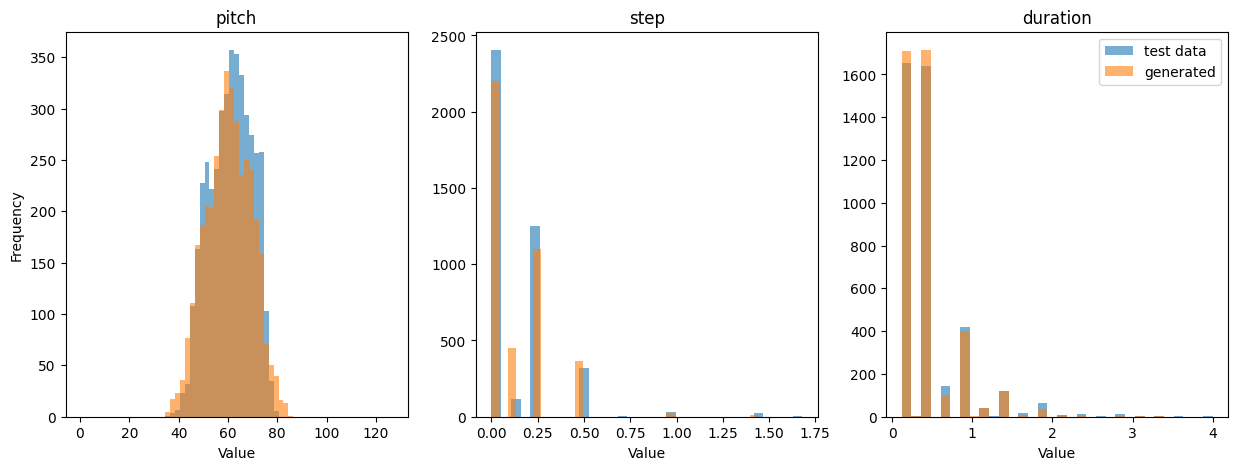
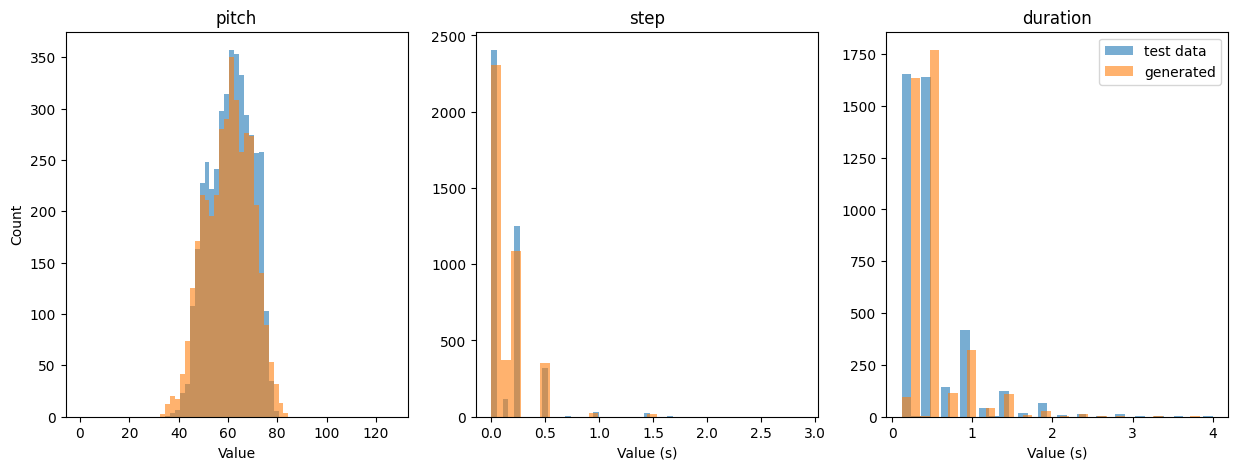
Built site for gh-pages

diff --git a/posts/Transformers2-MusicBox.html b/posts/Transformers2-MusicBox.html
@@ -3099,7 +3099,7 @@ p {
 <span id="cb46-14"><a href="#cb46-14" aria-hidden="true" tabindex="-1"></a>    new_notes_list.append( decode( model.generate(ptoks, max_new_tokens<span class="op">=</span>max_new_tokens)[<span class="dv">0</span>].cpu()[prompt_len:] ) )</span>
 <span id="cb46-15"><a href="#cb46-15" aria-hidden="true" tabindex="-1"></a>all_new_notes <span class="op">=</span> torch.vstack(new_notes_list).<span class="bu">type</span>(torch.float32)</span>
 <span id="cb46-16"><a href="#cb46-16" aria-hidden="true" tabindex="-1"></a></span>
-<span id="cb46-17"><a href="#cb46-17" aria-hidden="true" tabindex="-1"></a><span class="bu">print</span>(<span class="st">"all_test_notes.shape, all_new_notes.shape  = "</span>,all_test_notes.shape, all_new_notes.shape )</span>
+<span id="cb46-17"><a href="#cb46-17" aria-hidden="true" tabindex="-1"></a><span class="bu">print</span>(<span class="ss">f"# of test notes = </span><span class="sc">{</span><span class="bu">len</span>(all_test_notes)<span class="sc">}</span><span class="ss">,  # of generated notes = </span><span class="sc">{</span><span class="bu">len</span>(all_new_notes)<span class="sc">}</span><span class="ss"> --- Close enough!"</span>)</span>
 <span id="cb46-18"><a href="#cb46-18" aria-hidden="true" tabindex="-1"></a></span>
 <span id="cb46-19"><a href="#cb46-19" aria-hidden="true" tabindex="-1"></a></span>
 <span id="cb46-20"><a href="#cb46-20" aria-hidden="true" tabindex="-1"></a>fig, ax <span class="op">=</span> plt.subplots(<span class="dv">1</span>, <span class="dv">3</span>, figsize<span class="op">=</span>(<span class="dv">15</span>, <span class="dv">5</span>))</span>
@@ -3110,16 +3110,16 @@ p {
 <span id="cb46-25"><a href="#cb46-25" aria-hidden="true" tabindex="-1"></a>    ax[i].hist(all_new_notes[:,i].numpy(),  bins<span class="op">=</span>bins, label<span class="op">=</span><span class="st">'generated'</span>, alpha<span class="op">=</span><span class="fl">0.6</span>)</span>
 <span id="cb46-26"><a href="#cb46-26" aria-hidden="true" tabindex="-1"></a>    ax[i].set_title(names[i])</span>
 <span id="cb46-27"><a href="#cb46-27" aria-hidden="true" tabindex="-1"></a>    <span class="cf">if</span> i<span class="op">==</span><span class="dv">2</span>: ax[i].legend()</span>
-<span id="cb46-28"><a href="#cb46-28" aria-hidden="true" tabindex="-1"></a>    ax[i].set_xlabel(<span class="st">'Value'</span>)</span>
-<span id="cb46-29"><a href="#cb46-29" aria-hidden="true" tabindex="-1"></a>    <span class="cf">if</span> i<span class="op">==</span><span class="dv">0</span>: ax[i].set_ylabel(<span class="st">'Frequency'</span>)</span>
+<span id="cb46-28"><a href="#cb46-28" aria-hidden="true" tabindex="-1"></a>    ax[i].set_xlabel(<span class="st">'Value'</span><span class="op">+</span><span class="ss">f'</span><span class="sc">{</span><span class="st">" (s)"</span> <span class="cf">if</span> i<span class="op">&gt;</span><span class="dv">0</span> <span class="cf">else</span> <span class="st">""</span><span class="sc">}</span><span class="ss">'</span>)</span>
+<span id="cb46-29"><a href="#cb46-29" aria-hidden="true" tabindex="-1"></a>    <span class="cf">if</span> i<span class="op">==</span><span class="dv">0</span>: ax[i].set_ylabel(<span class="st">'Count'</span>)</span>
 <span id="cb46-30"><a href="#cb46-30" aria-hidden="true" tabindex="-1"></a>plt.show()</span></code><button title="Copy to Clipboard" class="code-copy-button"><i class="bi"></i></button></pre></div>
 </details>
 <div class="cell-output cell-output-stdout">
 <pre><code>Generating new notes...
-all_test_notes.shape, all_new_notes.shape  =  torch.Size([4159, 3]) torch.Size([4158, 3])</code></pre>
+# of test notes = 4159,  # of generated notes = 4158 --- Close enough!</code></pre>
 </div>
 <div class="cell-output cell-output-stderr">
-<pre><code>100%|███████████████████████████████████████████████████████████████| 77/77 [02:05&lt;00:00,  1.63s/it]</code></pre>
+<pre><code>100%|███████████████████████████████████████████████████████████████| 77/77 [02:03&lt;00:00,  1.60s/it]</code></pre>
 </div>
 <div class="cell-output cell-output-display">
 <p><img src="Transformers2-MusicBox_files/figure-html/cell-30-output-3.png" class="img-fluid"></p>

diff --git a/index.html b/index.html
@@ -182,7 +182,7 @@ details > summary {
 
 <div class="quarto-listing quarto-listing-container-default" id="listing-listing">
 <div class="list quarto-listing-default">
-<div class="quarto-post image-right" data-index="0" data-categories="nlp,architectures,transformers,music,midi" data-listing-date-sort="1702533600000" data-listing-file-modified-sort="1702587130098" data-listing-date-modified-sort="NaN" data-listing-reading-time-sort="21">
+<div class="quarto-post image-right" data-index="0" data-categories="nlp,architectures,transformers,music,midi" data-listing-date-sort="1702533600000" data-listing-file-modified-sort="1702587617788" data-listing-date-modified-sort="NaN" data-listing-reading-time-sort="21">
 <div class="thumbnail">
 <p><a href="./posts/Transformers2-MusicBox.html"> <img src="./posts/images/musicbox_prime.jpeg" class="thumbnail-image"> </a></p>
 </div>
